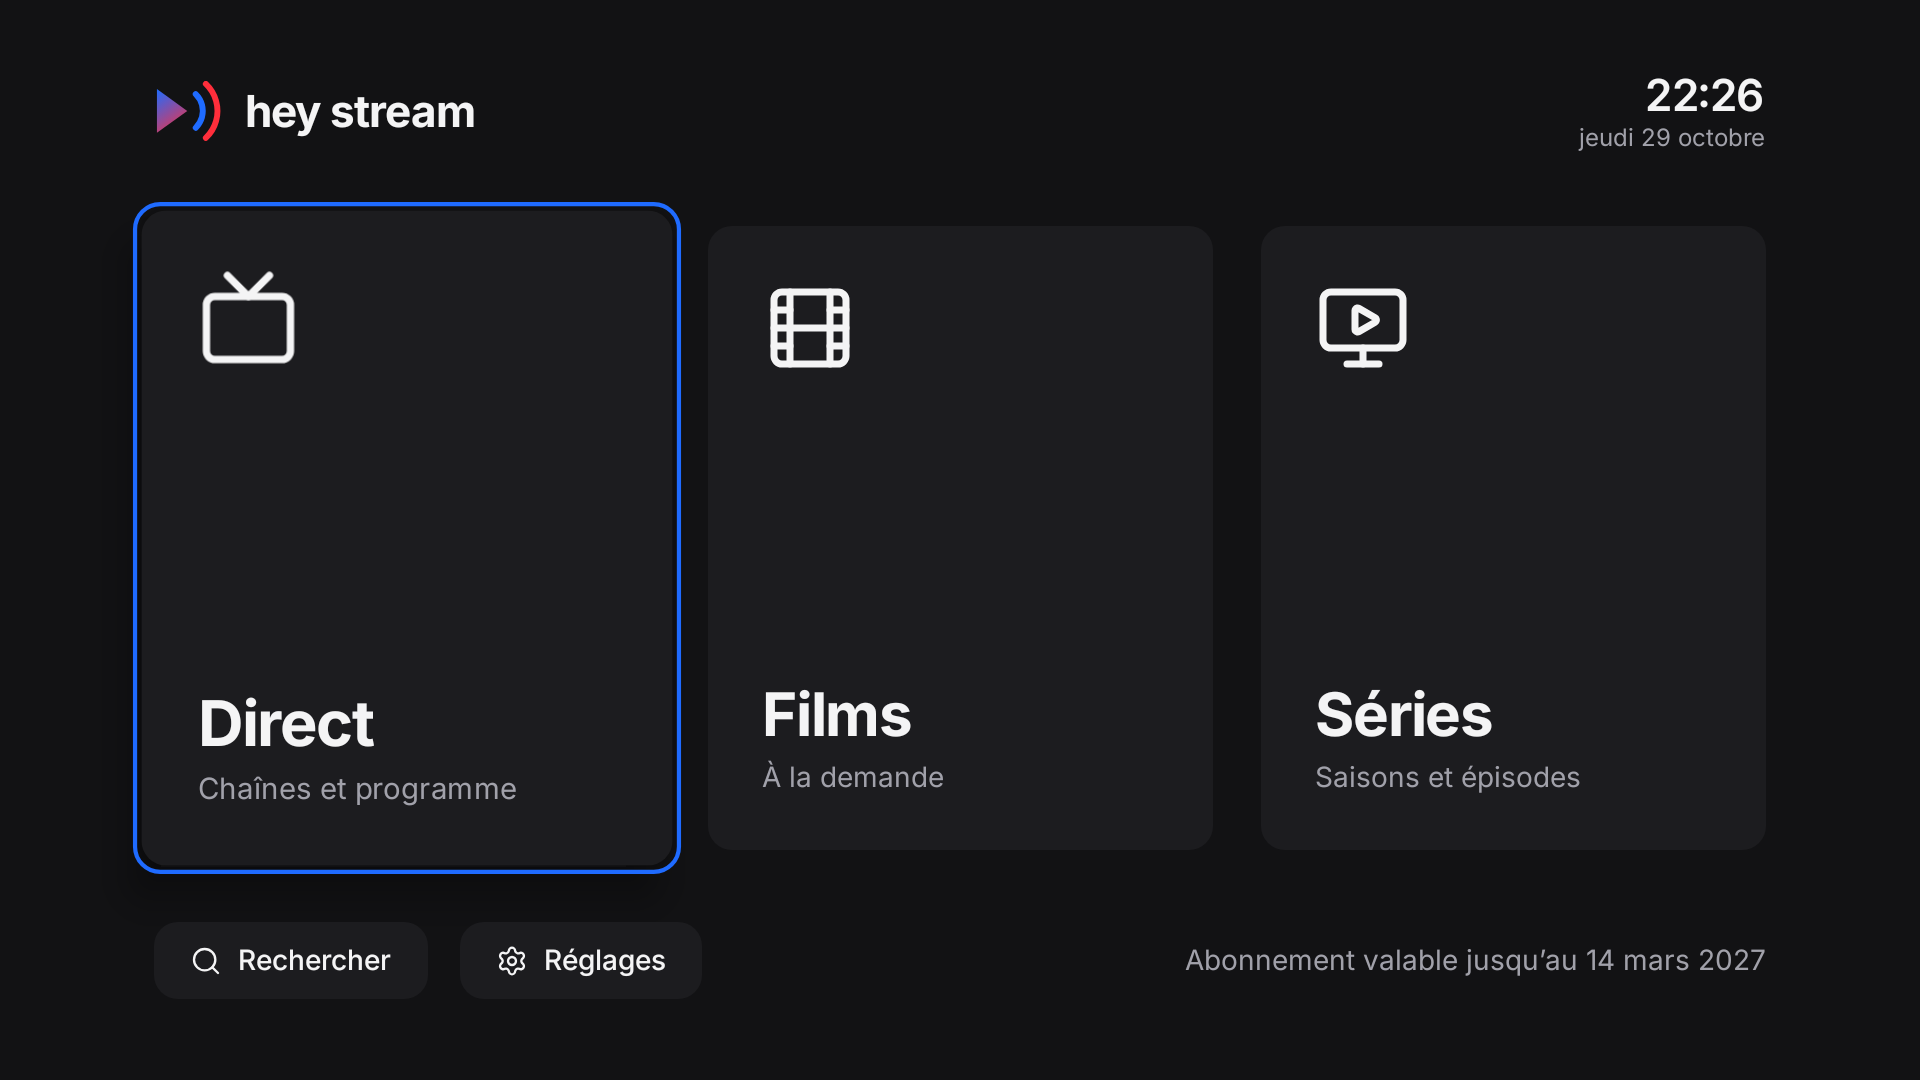
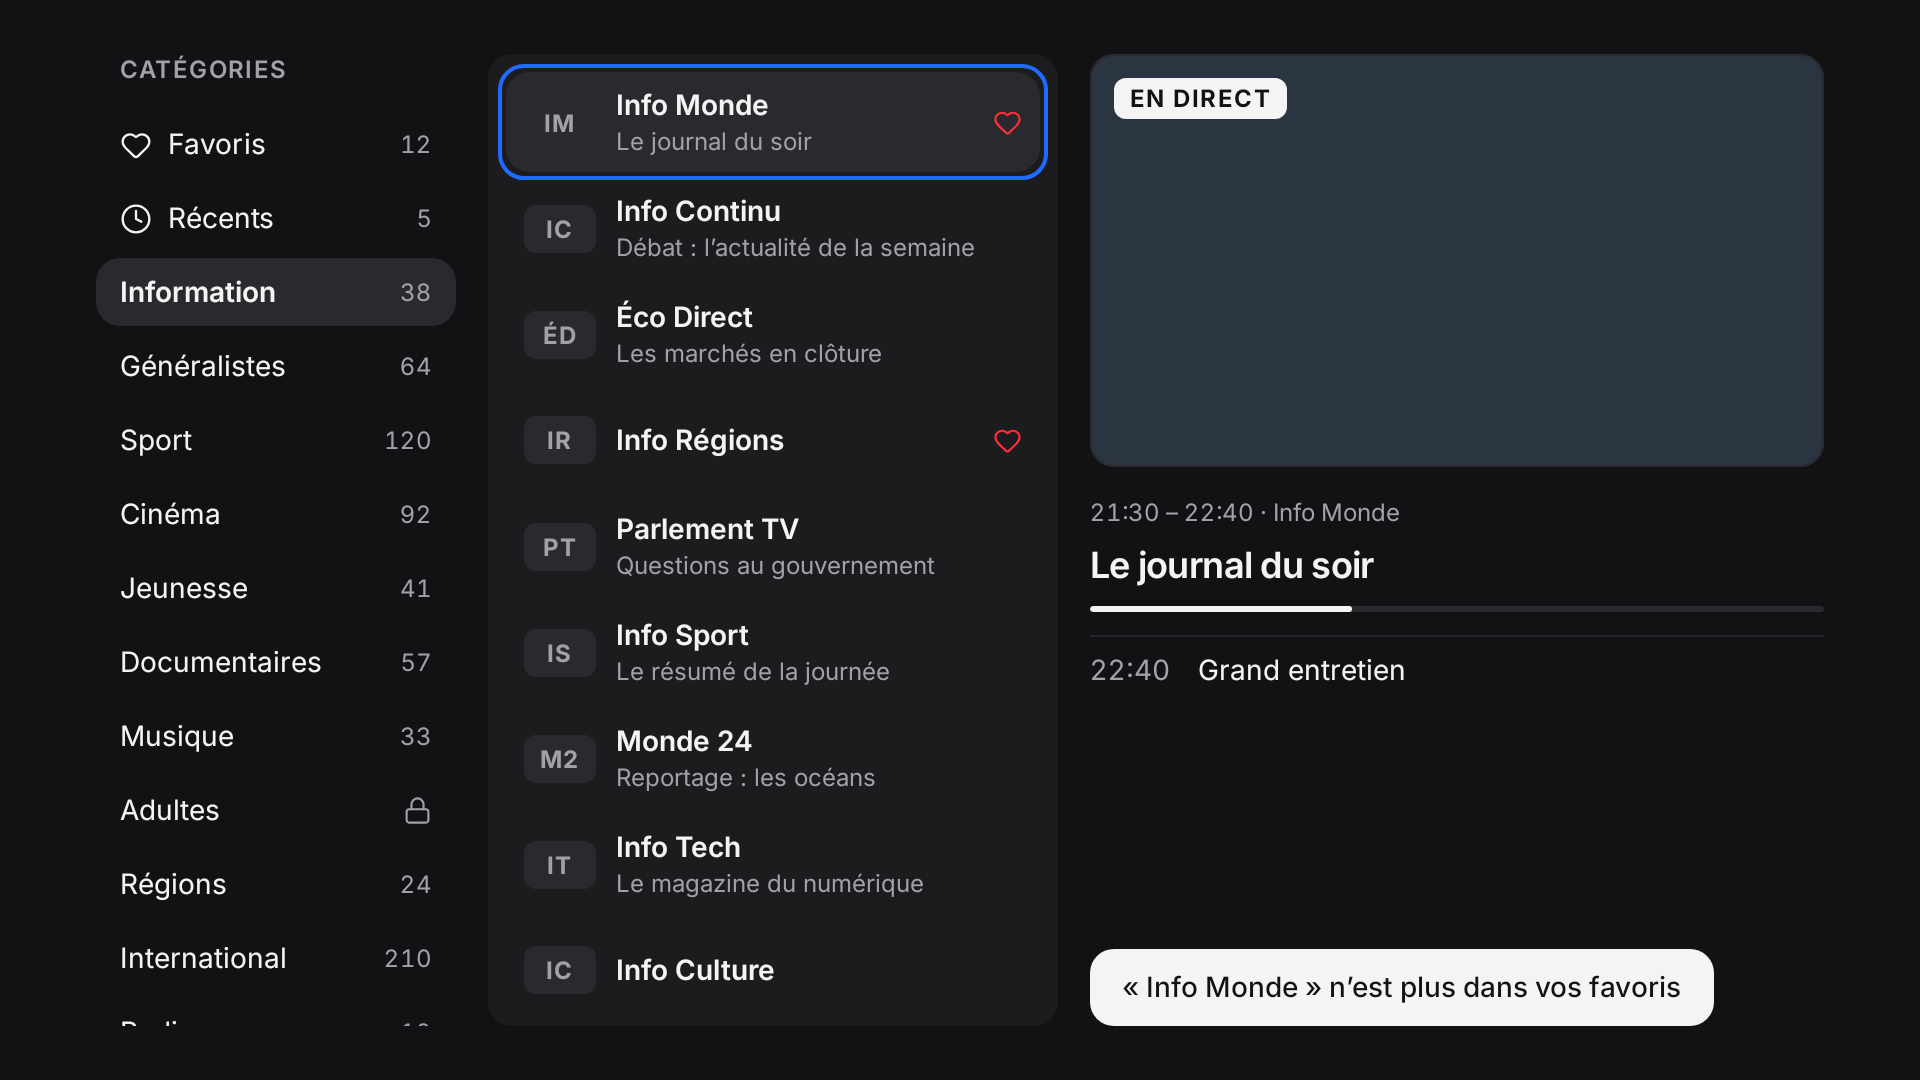
Site : présenté comme un lecteur, avertissement en tête ; réflexion M3U
Titre et texte sans « abonnement IPTV », avertissement « uniquement un
lecteur » sous le téléchargement, Xtream Codes cité une seule fois,
contrôle parental sans « adultes », capture TV du direct. DECISIONS :
image publique et piste M3U (non décidée).

Claude-Session: https://claude.ai/code/session_01HshdBuDnvbLK6h3TdysZ1D

diff --git a/site/index.html b/site/index.html
@@ -3,8 +3,8 @@
 <head>
 <meta charset="utf-8">
 <meta name="viewport" content="width=device-width, initial-scale=1">
-<title>Hey Stream — lecteur IPTV pour Android TV, tablette et téléphone</title>
-<meta name="description" content="Un lecteur IPTV simple et stable pour votre abonnement Xtream Codes, pensé pour la télécommande. Sans compte, sans publicité.">
+<title>Hey Stream — lecteur TV pour Android TV, tablette et téléphone</title>
+<meta name="description" content="Un lecteur TV sobre et rapide pour les sources que vous apportez, pensé pour la télécommande. Sans compte, sans publicité.">
 <link rel="icon" href="logo.svg" type="image/svg+xml">
 <link rel="alternate" hreflang="en" href="en/">
 <link rel="stylesheet" href="style.css">
@@ -19,16 +19,17 @@
   <main>
     <div class="hero">
       <img src="logo.svg" alt="">
-      <h1>Votre abonnement IPTV, simplement.</h1>
-      <p>Hey Stream lit votre abonnement Xtream Codes sur Android TV, tablette et téléphone. Pensé pour la télécommande, rapide sur les petites box, sans compte ni publicité.</p>
+      <h1>Un lecteur TV sobre et rapide, pour Android TV, tablette et téléphone.</h1>
+      <p>Hey Stream lit les sources que vous apportez : chaînes en direct, films et séries, avec la télécommande. Sans compte ni publicité.</p>
       <div class="actions">
         <a class="button primary" href="https://github.com/Shweepsi/hey-stream-native/releases">Télécharger</a>
         <a class="button" href="https://github.com/Shweepsi/hey-stream-native">Code source</a>
       </div>
+      <p class="note disclaimer">Hey Stream est uniquement un lecteur. Il ne fournit, ne vend ni ne recommande aucune chaîne, aucun flux ni aucun abonnement, et n’est lié à aucun fournisseur. Vous êtes responsable d’avoir le droit de regarder ce que vous ajoutez.</p>
     </div>
 
     <div class="shots">
-      <figure><img src="captures/tv.png" alt="Accueil sur un téléviseur : tuiles Direct, Films et Séries" width="1920" height="1080" loading="lazy"><figcaption>Sur le téléviseur</figcaption></figure>
+      <figure><img src="captures/tv.png" alt="Chaînes en direct sur un téléviseur, avec aperçu et programme" width="1920" height="1080" loading="lazy"><figcaption>Sur le téléviseur</figcaption></figure>
       <figure><img src="captures/tablette.png" alt="Grille de films sur une tablette" width="2560" height="1600" loading="lazy"><figcaption>Sur la tablette</figcaption></figure>
       <figure><img src="captures/telephone.png" alt="Chaînes en direct sur un téléphone" width="2745" height="1236" loading="lazy"><figcaption>Sur le téléphone</figcaption></figure>
     </div>
@@ -39,7 +40,7 @@
         <li><strong>Direct avec aperçu</strong><span>Catégories, chaînes et vidéo côte à côte ; programme en cours et suivant.</span></li>
         <li><strong>Films et séries</strong><span>Reprise là où vous vous êtes arrêté, épisode suivant automatique.</span></li>
         <li><strong>Favoris et récents</strong><span>Dans les trois sections, avec une recherche par nom.</span></li>
-        <li><strong>Contrôle parental</strong><span>Catégories adultes détectées et verrouillées par un code.</span></li>
+        <li><strong>Contrôle parental</strong><span>Un code protège les catégories que vous choisissez.</span></li>
         <li><strong>Hors ligne d’abord</strong><span>Le catalogue est gardé sur l’appareil et mis à jour une fois par jour.</span></li>
         <li><strong>Vos données restent chez vous</strong><span>Pas de compte, pas de publicité, pas de mesure d’audience.</span></li>
       </ul>
@@ -47,8 +48,7 @@
 
     <section>
       <h2>Bon à savoir</h2>
-      <p class="note">Hey Stream ne fournit aucun contenu : l’app lit seulement l’abonnement IPTV que vous ajoutez, avec l’adresse, l’identifiant et le mot de passe donnés par votre fournisseur.</p>
-      <p>Les versions actuelles sont des versions de test pour Android 11 et plus (dont Google TV). Logiciel libre sous licence GNU GPL 3.0.</p>
+      <p>Compatible avec l’API Xtream Codes : vous saisissez l’adresse, l’identifiant et le mot de passe de votre source. Les versions actuelles sont des versions de test pour Android 11 et plus (dont Google TV). Logiciel libre sous licence GNU GPL 3.0.</p>
     </section>
   </main>
 

diff --git a/site/en/index.html b/site/en/index.html
@@ -3,8 +3,8 @@
 <head>
 <meta charset="utf-8">
 <meta name="viewport" content="width=device-width, initial-scale=1">
-<title>Hey Stream — IPTV player for Android TV, tablet and phone</title>
-<meta name="description" content="A simple, stable IPTV player for your Xtream Codes subscription, designed for the remote. No account, no ads.">
+<title>Hey Stream — TV player for Android TV, tablet and phone</title>
+<meta name="description" content="A clean, fast TV player for the sources you bring, designed for the remote. No account, no ads.">
 <link rel="icon" href="../logo.svg" type="image/svg+xml">
 <link rel="alternate" hreflang="fr" href="../">
 <link rel="stylesheet" href="../style.css">
@@ -19,16 +19,17 @@
   <main>
     <div class="hero">
       <img src="../logo.svg" alt="">
-      <h1>Your IPTV subscription, simply.</h1>
-      <p>Hey Stream plays your Xtream Codes subscription on Android TV, tablets and phones. Designed for the remote, fast on small boxes, with no account and no ads.</p>
+      <h1>A clean, fast TV player for Android TV, tablet and phone.</h1>
+      <p>Hey Stream plays the sources you bring: live channels, movies and series, with the remote. No account, no ads.</p>
       <div class="actions">
         <a class="button primary" href="https://github.com/Shweepsi/hey-stream-native/releases">Download</a>
         <a class="button" href="https://github.com/Shweepsi/hey-stream-native">Source code</a>
       </div>
+      <p class="note disclaimer">Hey Stream is only a player. It does not provide, sell or recommend any channel, stream or subscription, and is not affiliated with any provider. You are responsible for having the right to watch what you add.</p>
     </div>
 
     <div class="shots">
-      <figure><img src="../captures/tv.png" alt="Home screen on a TV: Live, Movies and Series tiles" width="1920" height="1080" loading="lazy"><figcaption>On the TV</figcaption></figure>
+      <figure><img src="../captures/tv.png" alt="Live channels on a TV, with preview and program guide" width="1920" height="1080" loading="lazy"><figcaption>On the TV</figcaption></figure>
       <figure><img src="../captures/tablette.png" alt="Movie grid on a tablet" width="2560" height="1600" loading="lazy"><figcaption>On the tablet</figcaption></figure>
       <figure><img src="../captures/telephone.png" alt="Live channels on a phone" width="2745" height="1236" loading="lazy"><figcaption>On the phone</figcaption></figure>
     </div>
@@ -39,7 +40,7 @@
         <li><strong>Live with preview</strong><span>Categories, channels and video side by side; what’s on now and next.</span></li>
         <li><strong>Movies and series</strong><span>Resume where you left off, next episode plays automatically.</span></li>
         <li><strong>Favorites and recents</strong><span>In all three sections, with search by name.</span></li>
-        <li><strong>Parental control</strong><span>Adult categories detected and locked behind a code.</span></li>
+        <li><strong>Parental control</strong><span>A code protects the categories you choose.</span></li>
         <li><strong>Offline first</strong><span>The catalog is kept on the device and updated once a day.</span></li>
         <li><strong>Your data stays with you</strong><span>No account, no ads, no analytics.</span></li>
       </ul>
@@ -47,8 +48,7 @@
 
     <section>
       <h2>Good to know</h2>
-      <p class="note">Hey Stream provides no content: it only plays the IPTV subscription you add, with the server address, username and password from your provider.</p>
-      <p>Current versions are test builds for Android 11 and later (including Google TV). Free software under the GNU GPL 3.0 license.</p>
+      <p>Compatible with the Xtream Codes API: you enter your source’s server address, username and password. Current versions are test builds for Android 11 and later (including Google TV). Free software under the GNU GPL 3.0 license.</p>
     </section>
   </main>
 

diff --git a/site/style.css b/site/style.css
@@ -62,6 +62,8 @@ nav.lang a { color: var(--text-secondary); font-size: 15px; }
 .hero h1 { margin: 20px 0 8px; font-size: 44px; line-height: 1.15; letter-spacing: -0.02em; }
 .hero p { margin: 0; max-width: 620px; color: var(--text-secondary); font-size: 19px; }
 
+.disclaimer { max-width: 620px; margin: 20px 0 0; font-size: 15px; }
+
 .actions { display: flex; flex-wrap: wrap; gap: 12px; margin-top: 28px; }
 .button {
   display: inline-block;

diff --git a/docs/DECISIONS.md b/docs/DECISIONS.md
@@ -112,3 +112,21 @@ Constats :
 - **Chaque PR qui change l'app monte la version** et ajoute son entrée en
   tête de `CHANGELOG.md`. Une PR sans effet sur l'app (CI, docs) ne la monte pas.
 - Le nom de l'APK de la CI porte la version (`hey-stream-0.2.0-<commit>`).
+
+## Image publique et listes M3U (réflexion, 2026-10-29)
+
+Constat : les lecteurs reconnus (TiviMate, OTT Navigator) se présentent comme
+de simples **lecteurs** (« ne fournit aucun contenu, n'est lié à aucun
+fournisseur »), l'utilisateur apportant sa source. IPTV Smarters a été retiré
+de Google Play en 2019 sur plainte d'ayants droit, puis réintégré en faisant
+valoir qu'il n'est qu'un lecteur. Le nom « Xtream Codes » reste associé à
+l'opération antipiratage européenne de 2019. Le site présente donc Hey Stream
+comme un lecteur, avec l'avertissement près du téléchargement, et ne cite
+Xtream Codes qu'une fois, comme compatibilité technique.
+
+Limite : un lecteur qui ne lit que l'API Xtream sert surtout à des
+abonnements de provenance douteuse ; les sources légales (box des
+opérateurs, chaînes gratuites) passent plutôt par des **listes M3U**
+(hors périmètre v1, `SPEC_V1.md`). Ajouter M3U (avec guide XMLTV) serait le
+signal de légitimité le plus fort, notamment pour l'examen Google Play.
+**Non décidé** : à trancher avant la publication 1.0.
